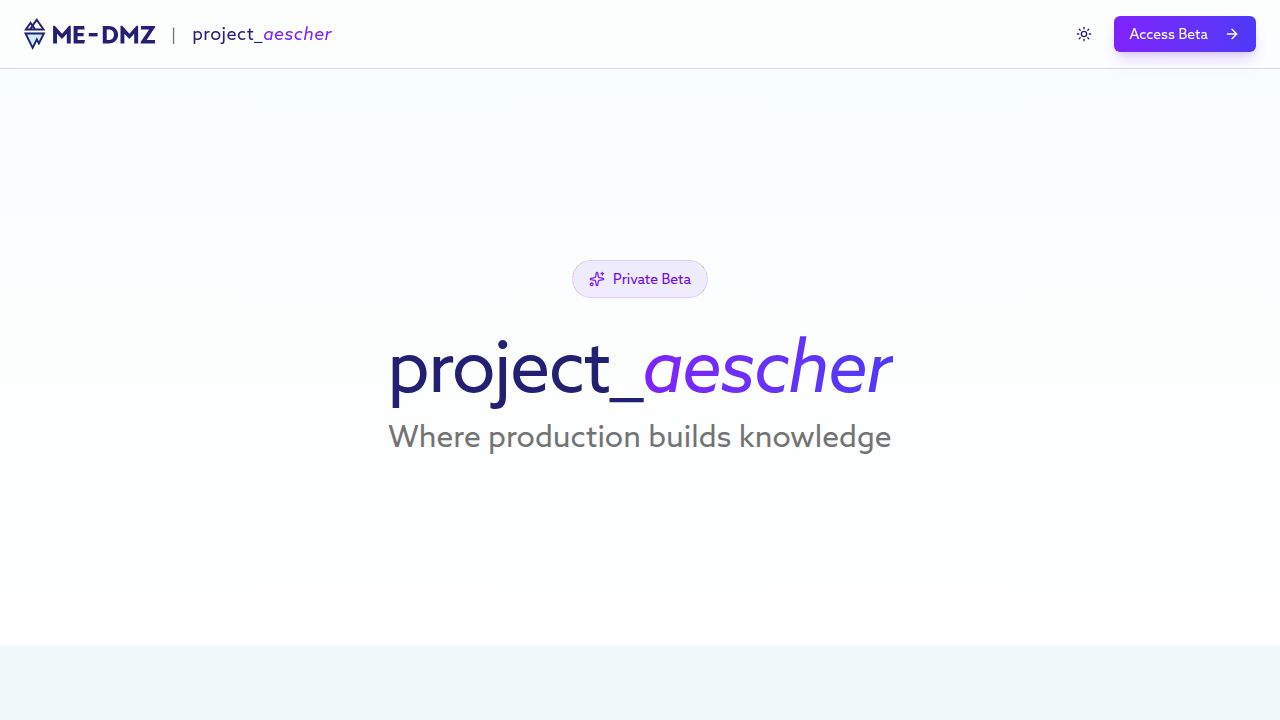
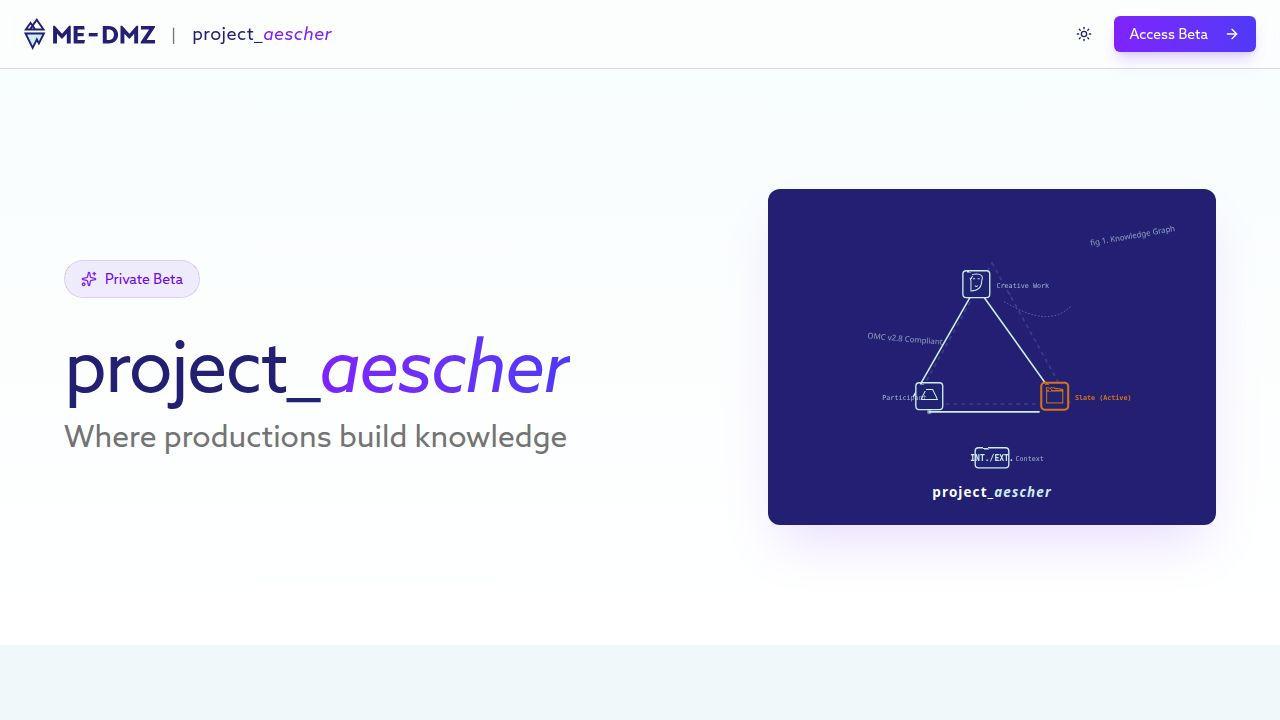
Add a diagram to the project's home screen introduction
Add a new SVG diagram to the intro page component and update the layout to display it next to the project title.

Replit-Commit-Author: Agent
Replit-Commit-Session-Id: 156072f5-0628-46ea-a819-732f5fc90d30
Replit-Commit-Checkpoint-Type: full_checkpoint
Replit-Commit-Event-Id: 1334cd4c-b574-4c34-a98f-e17d75e9fb55
Replit-Commit-Screenshot-Url: https://storage.googleapis.com/screenshot-production-us-central1/b75df675-96bf-4b5e-a76a-4bd8f15d38c2/156072f5-0628-46ea-a819-732f5fc90d30/Xkj3hIe
Replit-Helium-Checkpoint-Created: true

Changed region(s): [[0.0312, 0.2444, 0.9688, 0.7333], [0.4375, 0.3667, 0.5625, 0.3972], [0.0625, 0.3667, 0.1562, 0.3972]]

diff --git a/client/src/pages/intro.tsx b/client/src/pages/intro.tsx
@@ -114,19 +114,30 @@ export default function Intro() {
           />
           <div className="absolute inset-0 bg-gradient-to-b from-white/50 via-white/80 to-white dark:from-slate-950/50 dark:via-slate-900/80 dark:to-slate-950" />
           <div className="relative container mx-auto px-6 py-24">
-            <div className="max-w-4xl mx-auto text-center">
-              <div className="inline-flex items-center gap-2 bg-violet-500/10 border border-violet-500/20 rounded-full px-4 py-2 mb-8">
-                <Sparkles className="h-4 w-4 text-violet-600 dark:text-violet-400" />
-                <span className="text-sm text-violet-700 dark:text-violet-300 font-medium">Private Beta</span>
+            <div className="max-w-6xl mx-auto">
+              <div className="grid md:grid-cols-2 gap-12 items-center">
+                <div className="text-center md:text-left">
+                  <div className="inline-flex items-center gap-2 bg-violet-500/10 border border-violet-500/20 rounded-full px-4 py-2 mb-8">
+                    <Sparkles className="h-4 w-4 text-violet-600 dark:text-violet-400" />
+                    <span className="text-sm text-violet-700 dark:text-violet-300 font-medium">Private Beta</span>
+                  </div>
+                  
+                  <h1 className="text-5xl md:text-6xl lg:text-7xl font-light text-foreground mb-4 tracking-tight">
+                    project_<span className="italic font-medium bg-gradient-to-r from-violet-600 to-indigo-600 dark:from-violet-400 dark:to-indigo-400 bg-clip-text text-transparent">aescher</span>
+                  </h1>
+                  
+                  <p className="text-2xl md:text-3xl text-muted-foreground font-light">
+                    Where productions build knowledge
+                  </p>
+                </div>
+                <div className="flex justify-center md:justify-end">
+                  <img 
+                    src="/project-aescher-diagram.svg" 
+                    alt="Knowledge Graph Diagram" 
+                    className="w-full max-w-md rounded-xl shadow-2xl shadow-violet-500/20"
+                  />
+                </div>
               </div>
-              
-              <h1 className="text-5xl md:text-7xl font-light text-foreground mb-4 tracking-tight">
-                project_<span className="italic font-medium bg-gradient-to-r from-violet-600 to-indigo-600 dark:from-violet-400 dark:to-indigo-400 bg-clip-text text-transparent">aescher</span>
-              </h1>
-              
-              <p className="text-2xl md:text-3xl text-muted-foreground font-light">
-                Where productions build knowledge
-              </p>
             </div>
           </div>
         </section>
